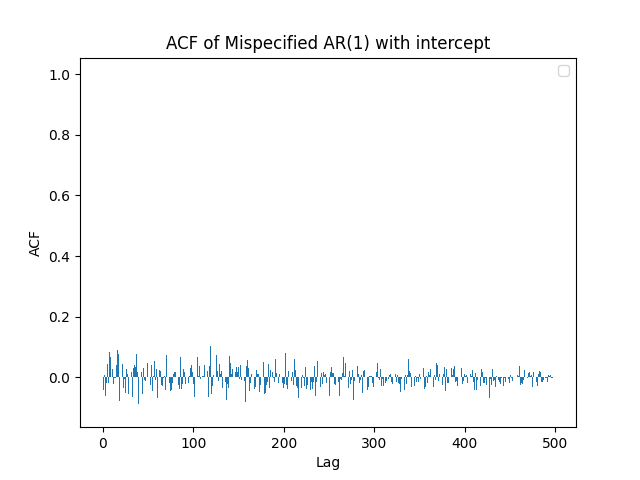
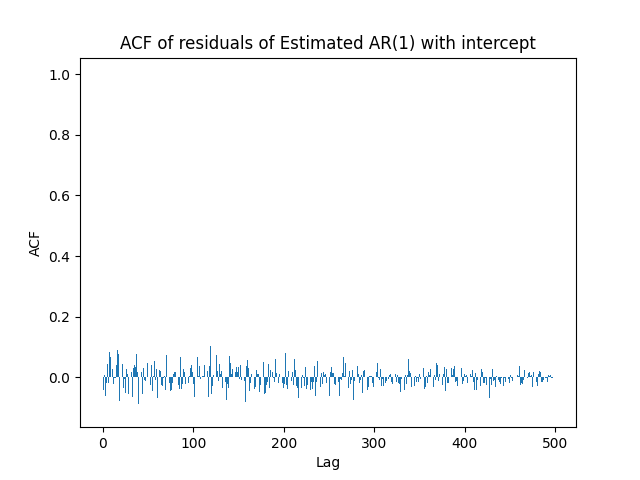
changes in plots' titles

Changed region(s): [[0.1875, 0.0625, 0.8438, 0.125]]

diff --git a/p1_q1.py b/p1_q1.py
@@ -66,7 +66,7 @@ if ismain:
     plt.bar(lags[:-1], acf_residuals)
     plt.xlabel("Lag")
     plt.ylabel("ACF")
-    plt.title("ACF of Estimated AR(1) with intercept")
+    plt.title("ACF of residuals of Estimated AR(1) with intercept")
     plt.show()
     
 lb_stat, lb_pv = ljung_box(residuals)
